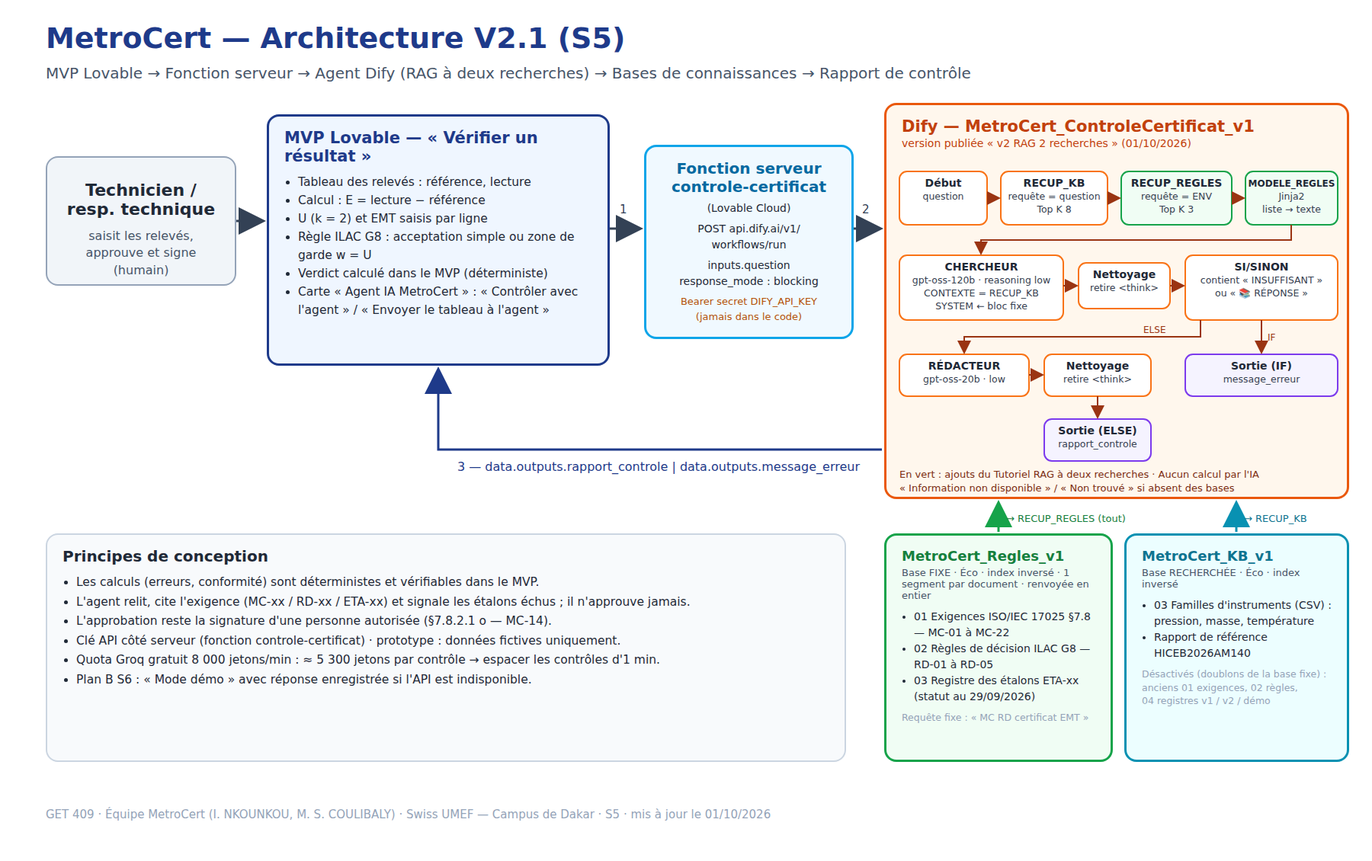
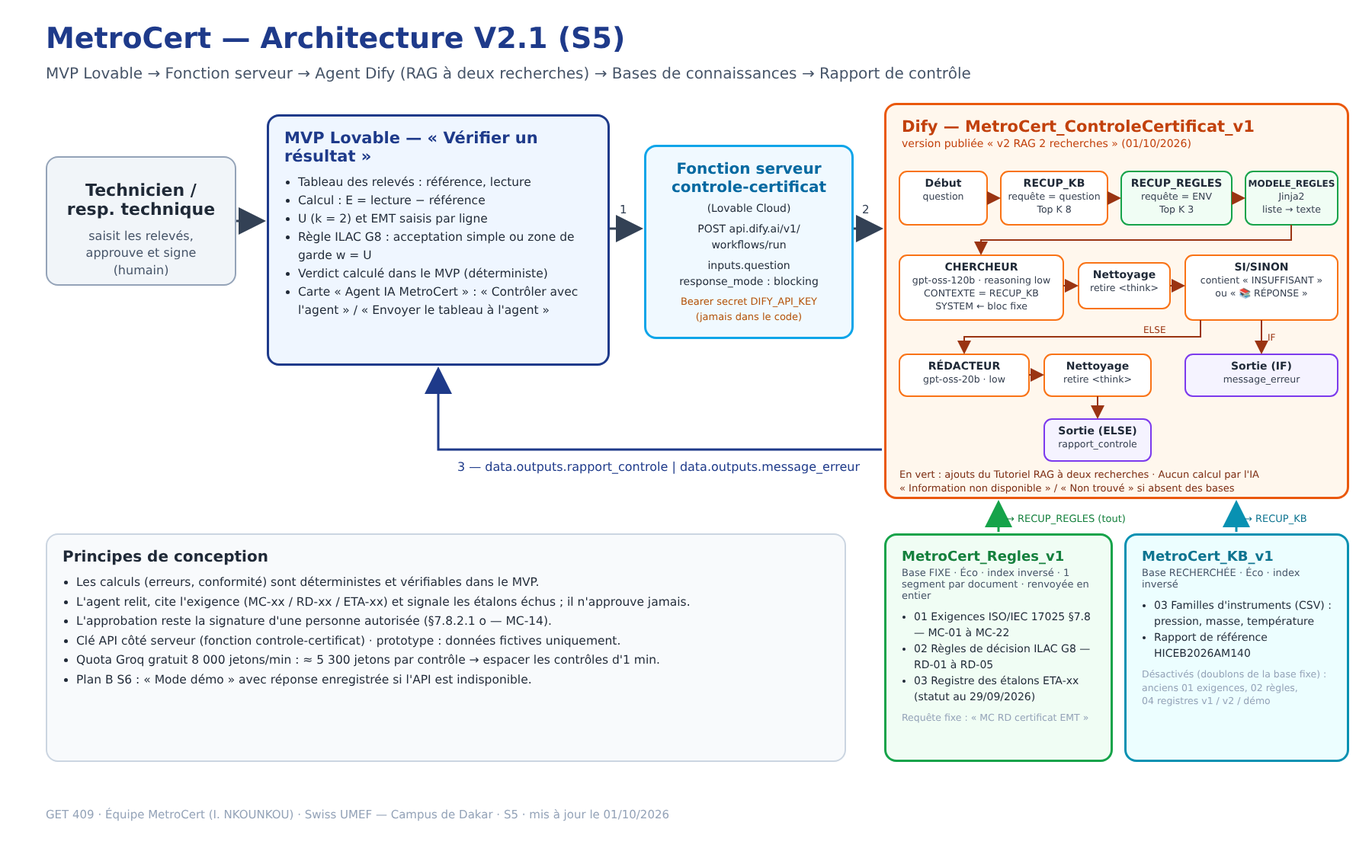
docs(S5+/S6): équipe solo, mise en ligne, secours Gemini, démo et note d'éthique S6
- Équipe : retrait du membre 2 (README, fiche équipe, pieds de page des schémas, PNG régénérés)
- S5+ : lien public, tests T2/T3/T7/T8 sur le site public, secours Gemini, check-list
- Journal de prompts S5+ ; suivi du module D mis à jour
- S6 : script de démo 10 min + plan B, note d'éthique (biais RAG, confidentialité, impact)

Claude-Session: https://claude.ai/code/session_01Ty36ziWNxkZNZZnrMYEiXG

diff --git a/docs/s5/architecture-v2-1.html b/docs/s5/architecture-v2-1.html
@@ -74,7 +74,7 @@ h1{position:absolute;left:60px;top:28px;font-size:38px;color:#1e3a8a;font-weight
 <li>Quota Groq gratuit 8 000 jetons/min : ≈ 5 300 jetons par contrôle → espacer les contrôles d'1 min.</li>
 <li>Plan B S6 : « Mode démo » avec réponse enregistrée si l'API est indisponible.</li></ul></div>
 
-<div class="abs foot">GET 409 · Équipe MetroCert (I. NKOUNKOU, M. S. COULIBALY) · Swiss UMEF — Campus de Dakar · S5 · mis à jour le 01/10/2026</div>
+<div class="abs foot">GET 409 · Équipe MetroCert (I. NKOUNKOU) · Swiss UMEF — Campus de Dakar · S5 · mis à jour le 01/10/2026</div>
 
 <svg class="abs" style="left:0;top:0" width="1800" height="1130">
 <defs>

diff --git a/docs/s6/demo-s6.md b/docs/s6/demo-s6.md
@@ -1,0 +1,107 @@
+# Démo S6 — évaluation intermédiaire (10 min)
+
+> GET 409 · Équipe MetroCert (I. NKOUNKOU) · préparé le 02/10/2026
+> Grille : C1 MVP fonctionnel /4 · C2 architecture agentique /2 · C3 clarté /2.
+> Lien : **https://pixel-perfect-capture-0446.lovable.app/verifier-resultat**
+
+## Avant de passer (J-0, 15 min avant)
+
+- [ ] Ouvrir le lien public et la page « Vérifier un résultat » ; ouvrir Dify (workflow MetroCert_ControleCertificat_v1) dans un 2ᵉ onglet ; ouvrir [architecture-v2-1.png](../s5/architecture-v2-1.png) dans un 3ᵉ.
+- [ ] Faire **un** contrôle de chauffe (entrée B) ≥ 1 min avant de passer, pour vérifier que Groq répond.
+- [ ] Si Groq ne répond pas : bascule Gemini ([s5plus-mise-en-ligne.md](../s5/s5plus-mise-en-ligne.md#module-a--secours-gemini-02102026-0348)) ou plan B ci-dessous.
+- [ ] Entrées A et B copiées dans le presse-papiers ou un bloc-notes.
+- [ ] Laisser **1 minute** entre deux contrôles (quota Groq gratuit).
+
+## Déroulé
+
+| Temps | Partie | À l'écran | Ce que je dis | Critère |
+|---|---|---|---|---|
+| 0:00–1:00 | Problème et valeur | Page d'accueil MetroCert | « Au Sénégal, les laboratoires d'étalonnage rédigent leurs certificats à la main, avec un modèle par instrument et par client. Résultat : 2 à 5 jours de délai et des écarts en audit. MetroCert relit le certificat avant signature, pour livrer dans la journée et passer l'audit sans écart lié aux certificats. » | C3 |
+| 1:00–3:30 | Fonctionnalité 1 : calcul de conformité ILAC G8 | « Vérifier un résultat » → **Charger l'exemple** → basculer entre « Acceptation simple » et « Zone de garde w = U » | « Le calcul E = lecture − référence et le verdict par point sont faits dans l'application, sans IA, donc vérifiables. À 10 bar, E = 0,10 bar = EMT : conforme en acceptation simple, non conforme avec la zone de garde. » | C1 |
+| 3:30–7:00 | Fonctionnalité 2 : agent RAG + circuit de validation (F1) | Coller l'**entrée A** → **Contrôler avec l'agent MetroCert** (≈ 20 s) → montrer 🔎 ETA-T-02 échu [MC-18] → badge rouge et compteurs → **Renvoyer au technicien** (e-mail prérempli, sans destinataire) → **Approuver** grisé, puis nom + case | « L'agent a trouvé dans le registre que l'étalon ETA-T-02 est échu depuis le 31/08/2026 : la traçabilité est rompue, il propose ETA-T-05. Il n'approuve jamais : l'approbation reste un acte humain, nominatif et confirmé. » | C1, C2 |
+| 7:00–8:00 | Garde-fou « demander plutôt qu'inventer » | Coller l'**entrée B** (après 1 min) | « Sans certificat, l'agent répond INSUFFISANT au lieu d'inventer. » | C2 |
+| 8:00–9:30 | Architecture | [architecture-v2-1.png](../s5/architecture-v2-1.png), puis l'onglet Dify | « Lovable appelle une fonction serveur qui garde la clé Dify. Le workflow fait deux recherches : la base fixe des règles, renvoyée en entier, et la base des instruments. CHERCHEUR, puis nœuds Code qui recalculent le bilan, puis RÉDACTEUR. » | C2 |
+| 9:30–10:00 | Éthique et suite | [note-ethique-s6.md](note-ethique-s6.md) | « Données fictives seulement, rien n'est stocké, secours Gemini prêt. Prochaine étape : alerte d'échéance des étalons à 30 jours, puis un pilote contrôlé. » | C3 |
+
+## Entrées à coller
+
+### Entrée A — certificat avec étalon échu (T2)
+
+```text
+CERTIFICAT D'ÉTALONNAGE N° CE-2026-0215 — page 1/1
+Laboratoire : MetroCert, Zone industrielle de Mbao, Dakar — laboratoire non accrédité
+Lieu de l'étalonnage : laboratoire MetroCert
+Client : Agro Démo SARL, Rufisque (client fictif)
+Instrument : thermomètre à sonde Pt100, fabricant Démo, modèle T-100, n° de série DEMO-0215, résolution 0,01 °C
+Méthode : procédure interne PE-T-01 (comparaison en bain thermostaté)
+Date d'étalonnage : 25/09/2026 — date d'émission : 26/09/2026
+Conditions ambiantes : 22,5 °C ± 1 °C ; 48 %HR
+Étalon utilisé : ETA-T-02 (certificat 2025-T-091)
+Résultats :
+Référence 0,00 °C — lecture 0,05 °C — E = 0,05 °C — U = 0,06 °C (k = 2)
+Référence 50,00 °C — lecture 50,08 °C — E = 0,08 °C — U = 0,06 °C (k = 2)
+Référence 100,00 °C — lecture 100,12 °C — E = 0,12 °C — U = 0,07 °C (k = 2)
+Approuvé par : Responsable technique (démo), signature
+```
+
+### Entrée B — entrée incomplète (T3)
+
+```text
+Contrôle le certificat du manomètre.
+```
+
+## Questions probables du jury
+
+| Question | Réponse courte |
+|---|---|
+| Que se passe-t-il si l'agent se trompe ? | Il ne signe rien : il liste des points à vérifier, chacun avec sa référence. Le verdict de conformité des mesures est calculé sans IA, et la signature reste celle du responsable technique. |
+| Pourquoi deux recherches RAG ? | Avec une seule, les 22 exigences et le registre complet ne remontaient pas : l'étalon échu passait inaperçu. La base fixe est renvoyée en entier à chaque contrôle. |
+| Les compteurs changent d'un essai à l'autre ? | Oui, le modèle varie sur certaines mentions (ex. M15). Le verdict et l'étalon échu restent stables, et le bilan est recalculé par un nœud Code. |
+| Où sont les données ? | Prototype : données fictives uniquement, rien n'est stocké. En usage réel : anonymisation et offre sans réutilisation des données (note d'éthique). |
+| Et si Groq tombe ? | Clé Gemini déjà configurée dans Dify, bascule en 2 minutes ; sinon plan B ci-dessous. |
+
+## Plan B
+
+Si l'agent ne répond pas pendant la démo (quota, réseau) : dire « l'API est indisponible, voici la sortie enregistrée sur le site public le 02/10/2026 » et montrer les réponses ci-dessous ou les captures du dossier [`../s5/captures/`](../s5/captures/). La partie 1 (calcul ILAC G8) fonctionne sans API.
+
+### Réponse enregistrée à l'entrée A (site public, 02/10/2026, 03:52)
+
+```text
+RAPPORT DE CONTRÔLE — METROCERT
+Complétude ISO/IEC 17025:2017 §7.8
+═══════════════════════════════
+CERTIFICAT : CE-2026-0215
+INSTRUMENT : thermomètre à sonde Pt100, n° de série DEMO-0215
+LABORATOIRE : MetroCert
+CLIENT : Agro Démo SARL
+───────────────────────────────
+VERDICT : ⛔ À CORRIGER AVANT APPROBATION
+Bilan : 13 présentes · 0 manquantes · 0 à vérifier · 2 non applicables
+───────────────────────────────
+❌ MENTIONS MANQUANTES
+Aucune
+───────────────────────────────
+⚠ POINTS À VÉRIFIER
+Aucune
+───────────────────────────────
+🔎 INCOHÉRENCES
+1. L'étalon cité (ETA-T-02) apparaît dans le registre des étalons avec le statut Échu (échéance 31/08/2026) → utilisation non conforme à la traçabilité métrologique [MC-18].
+───────────────────────────────
+✅ MENTIONS PRÉSENTES
+M1, M2, M3, M4, M5, M6, M7, M8, M9, M10, M11, M12, M15
+───────────────────────────────
+PROCHAINE ÉTAPE
+Refaire l'étalonnage avec un étalon valide du registre (ex. ETA-T-05 pour la température) : un étalon échu rompt la traçabilité (MC-18).
+───────────────────────────────
+Contrôle automatique d'aide à la relecture. Il ne remplace ni la vérification ni la signature du responsable technique.
+```
+
+### Réponse enregistrée à l'entrée B (site public, 02/10/2026, 02:20)
+
+```text
+INSUFFISANT : Aucun texte de certificat ou relevé d'étalonnage fourni pour effectuer le contrôle.
+```
+
+### Réponse enregistrée à « Envoyer le tableau à l'agent » (exemple du manomètre, 02/10/2026, 02:22)
+
+Verdict ⛔ ; Bilan 2 présentes · 11 manquantes · 1 à vérifier · 1 non applicable : le tableau seul ne contient ni numéro de certificat, ni laboratoire, ni client, ni étalon ; M10 « U indiqué sans unité » à vérifier. Prochaine étape : compléter M1 à M8, M11, M12, M15 et préciser l'unité et le facteur k de U.

diff --git a/README.md b/README.md
@@ -6,10 +6,9 @@
 
 | Prénom Nom | Rôle | GitHub |
 |---|---|---|
-| Ivon NKOUNKOU | Chef de Produit (PM) · Dev UI (No-Code) | @nherrys2026-max |
-| Maimouna Sira COULIBALY | Master Prompt Engineer · Responsable Impact & Éthique | coulibalymaimounasira@gmail.com |
+| Ivon NKOUNKOU | Chef de Produit (PM) · Dev UI (No-Code) · Prompt Engineer · Responsable Impact & Éthique | @nherrys2026-max |
 
-Contacts GitHub de l'équipe : nherrys2026@gmail.com · coulibalymaimounasira@gmail.com
+Contact GitHub de l'équipe : nherrys2026@gmail.com
 
 ## Notre défi
 
@@ -47,7 +46,7 @@ Par rapport à la S1, le HMW définitif garde un seul utilisateur principal (le 
 
 | Livrable | Fichier / lien | Statut |
 | --- | --- | --- |
-| **L1 · MVP V1 en ligne** (35 pts) | URL lovable.app : _à renseigner_ | ⏳ |
+| **L1 · MVP V1 en ligne** (35 pts) | [pixel-perfect-capture-0446.lovable.app](https://pixel-perfect-capture-0446.lovable.app) | ✅ |
 | **L2 · Projet Lovable public + README** (25 pts) | Dépôt du code : _à renseigner_ | ⏳ |
 | **L3 · Journal de prompts S4** (init + 3 itérations) | [docs/s4/s4-mvp-lovable.md §4](docs/s4/s4-mvp-lovable.md#4-journal-de-prompts-s4-l3--min-4-prompts) | ⏳ résultats à noter |
 | **L4 · Captures + note d'itération** | [docs/s4/s4-mvp-lovable.md §5](docs/s4/s4-mvp-lovable.md#5-note-ditération-l4--½-page-brouillon-à-ajuster) | ⏳ captures à faire |
@@ -58,16 +57,27 @@ Prompts prêts à coller : [docs/s4/s4-mvp-lovable.md](docs/s4/s4-mvp-lovable.md
 
 | Livrable | Fichier / lien | Statut |
 | --- | --- | --- |
-| **L1 · MVP V2 avec webhook** (30 pts) | MVP Lovable, page « Vérifier un résultat » → carte « Agent IA MetroCert » ; appel par la fonction serveur `controle-certificat` (secret `DIFY_API_KEY`). URL publique lovable.app : _à renseigner_ | ✅ testé le 01/10 |
+| **L1 · MVP V2 avec webhook** (30 pts) | MVP Lovable, page « Vérifier un résultat » → carte « Agent IA MetroCert » ; appel par la fonction serveur `controle-certificat` (secret `DIFY_API_KEY`). URL publique : [pixel-perfect-capture-0446.lovable.app/verifier-resultat](https://pixel-perfect-capture-0446.lovable.app/verifier-resultat) | ✅ testé en ligne le 02/10 (PC + Android) |
 | **L2 · Pipeline RAG** (30 pts) | RAG à deux recherches : base fixe `MetroCert_Regles_v1` ([kb/fixe/](docs/s5/kb/fixe/)) + base recherchée `MetroCert_KB_v1` — [docs/s5/s5bis-rag-deux-recherches.md](docs/s5/s5bis-rag-deux-recherches.md) · captures Dify à ajouter | ⏳ captures |
 | **L3 · Schéma d'architecture V2.1** (20 pts) | [docs/s5/architecture-v2-1.png](docs/s5/architecture-v2-1.png) (V2 initiale : [architecture-v2.png](docs/s5/architecture-v2.png)) | ✅ |
 | **L4 · Journal de prompts S5** (10 prompts) | [docs/s5/s5-rag-webhook.md](docs/s5/s5-rag-webhook.md#journal-de-prompts-s5-l4--min-3-prompts) | ✅ |
 | **Tests de non-régression T1–T6** (S5+, module B) | [docs/s5/s5bis-rag-deux-recherches.md §5](docs/s5/s5bis-rag-deux-recherches.md#5-batterie-de-tests-t1t6-module-b) | ✅ 6/6 (v2.3) |
-| **Fonctionnalité IA innovante** (S5+, module D) | 3 propositions notées (F1 24/25 · F3 19/25 · F2 15/25), F1 « validation et renvoi au technicien » implémentée dans Lovable, tests T7–T8 — [docs/s5/module-d-fonctionnalites.md](docs/s5/module-d-fonctionnalites.md) | ✅ T7–T8 (aperçu) · ⏳ Publish |
+| **Mise en ligne, tests publics, secours Gemini** (S5+, modules A et F) | [docs/s5/s5plus-mise-en-ligne.md](docs/s5/s5plus-mise-en-ligne.md) — clé de secours `Gemini_MetroCert` dans Dify, bascule en 2 min | ✅ |
+| **Fonctionnalité IA innovante** (S5+, module D) | 3 propositions notées (F1 24/25 · F3 19/25 · F2 15/25), F1 « validation et renvoi au technicien » implémentée dans Lovable, tests T7–T8 — [docs/s5/module-d-fonctionnalites.md](docs/s5/module-d-fonctionnalites.md) | ✅ T7–T8 sur le site public (02/10) |
 
 Agent Dify : `MetroCert_ControleCertificat_v1_[HERRYSTEAM]` — Workflow — version publiée **« v2.3 bilan doublons »** (01/10/2026) — CHERCHEUR Groq `gpt-oss-120b`, RÉDACTEUR Groq `gpt-oss-20b` (reasoning low). Limite du palier gratuit Groq : un contrôle par minute.
 
 ![Architecture V2.1](docs/s5/architecture-v2-1.png)
+
+## S6 — Évaluation intermédiaire
+
+| Élément | Fichier | Statut |
+| --- | --- | --- |
+| **Démo 10 min** (C1 MVP /4 · C2 architecture /2 · C3 clarté /2) | [docs/s6/demo-s6.md](docs/s6/demo-s6.md) — déroulé minuté, entrées à coller, questions du jury | ✅ prêt |
+| **Plan B** (panne API) | [docs/s6/demo-s6.md#plan-b](docs/s6/demo-s6.md#plan-b) — réponses réelles enregistrées sur le site public | ✅ |
+| **Note d'éthique IA** (biais RAG, confidentialité, impact socio-économique) | [docs/s6/note-ethique-s6.md](docs/s6/note-ethique-s6.md) | ✅ |
+
+Lien de démo : **[pixel-perfect-capture-0446.lovable.app/verifier-resultat](https://pixel-perfect-capture-0446.lovable.app/verifier-resultat)**
 
 ## Structure du dépôt
 
@@ -93,9 +103,13 @@ GET409-MetroCert/
         ├── s5-rag-webhook.md          ← S5 · RAG, webhook, journal de prompts, plan B
         ├── s5bis-rag-deux-recherches.md ← S5 bis · base fixe, workflow publié, tests T1–T6, versions
         ├── module-d-fonctionnalites.md ← S5+ module D · 3 fonctionnalités notées, spec F1, T7–T8
+        ├── s5plus-mise-en-ligne.md    ← S5+ · lien public, tests en ligne, secours Gemini, check-list
         ├── architecture-v2-1.png/.html ← S5 · L3 (schéma à jour) ; architecture-v2.* = V2 initiale
         ├── prompts/                   ← prompts SYSTEM publiés (CHERCHEUR, RÉDACTEUR)
         ├── code/                      ← nœuds Code Dify (Nettoyage CHERCHEUR / RÉDACTEUR)
         ├── captures/                  ← captures L1 / L4
         └── kb/                        ← base recherchée MetroCert_KB_v1 (+ fixe/ : base MetroCert_Regles_v1)
+    └── s6/
+        ├── demo-s6.md                 ← S6 · script de démo 10 min + plan B
+        └── note-ethique-s6.md         ← S6 · note d'éthique IA (1 page)
 ```

diff --git a/docs/s5/s5plus-mise-en-ligne.md b/docs/s5/s5plus-mise-en-ligne.md
@@ -1,0 +1,53 @@
+# S5+ — Mise en ligne, tests sur le site public et secours Gemini
+
+> GET 409 · Tutoriel S5+ (modules A, B, D, F) · Équipe MetroCert (I. NKOUNKOU) · 02/10/2026
+
+## Lien public
+
+**https://pixel-perfect-capture-0446.lovable.app** — page de l'agent : [`/verifier-resultat`](https://pixel-perfect-capture-0446.lovable.app/verifier-resultat), carte « Agent IA MetroCert 🔎 ».
+
+- Projet Lovable « Pixel Perfect Pixels », première publication le 02/10/2026 vers 02:15.
+- Mise à jour publiée à 03:01 : liste « Dernières décisions » conservée entre deux contrôles.
+- Correctif appliqué dans Lovable le 02/10 vers 04:00, **à publier** (Publish → « Publier les modifications ») : liste visible même après une réponse INSUFFISANT, « N° manquant » pour un certificat sans numéro.
+- Visibilité : toute personne disposant du lien.
+
+## Tests sur le site public (02/10/2026)
+
+Contrôles espacés d'1 minute (quota Groq gratuit : 8 000 jetons/min, ≈ 5 300 par contrôle).
+
+| Test | Appareil | Entrée | Résultat | Statut |
+|---|---|---|---|:-:|
+| T3 | PC (~02:20) | « Contrôle le certificat du manomètre. » | `INSUFFISANT : Aucun texte de certificat ou relevé d'étalonnage fourni…`, sans badge ni bouton. Prouve aussi que le secret `DIFY_API_KEY` est présent en production. | ✅ |
+| F1 (chemin ⛔) | PC (~02:22 et ~02:25) | « Charger l'exemple » → « Envoyer le tableau à l'agent » → « Contrôler » | VERDICT ⛔ ; Bilan 2 · 11 · 1 · 1 puis 4 · 10 · 2 · 1 (variabilité du modèle, verdict stable) ; badge et compteurs identiques à la ligne Bilan ; « Renvoyer au technicien » présent. | ✅ |
+| F1 (chemin ⛔) | **Téléphone Android, Chrome (02:29)** | idem | VERDICT ⛔ ; Bilan 2 · 11 · 1 · 1 ; badge, 4 pastilles, « Renvoyer au technicien » et bloc « Approbation » affichés ; mise en page mobile lisible. | ✅ |
+| T7 | PC (03:03) | Exemple du tableau | « Approuver » **désactivé** avec le nom seul ; actif après la case cochée. « Approuvé par Responsable démo le 2 octobre 2026 à 03:03 » ajouté à « Dernières décisions ». | ✅ |
+| T8-2 | PC (~03:05) | Entrée de T3 | `INSUFFISANT…` seul, sans badge ni bouton. | ✅ |
+| T8 persistance | PC (~03:07) | Nouveau contrôle complet | Nouveau rapport ⛔ et la décision de 03:03 **toujours listée**. | ✅ |
+| Rechargement | PC (~03:08) | F5 | Liste vide ; `localStorage` vide ; `sessionStorage` ne contient que la position de défilement du routeur. | ✅ |
+| T2 (public) | PC (03:52) | Certificat fictif complet CE-2026-0215, Pt100, étalon ETA-T-02 ([texte](../s6/demo-s6.md#entrée-a--certificat-avec-étalon-échu-t2)) | ⛔ ; Bilan 13 · 0 · 0 · 2 ; 🔎 « ETA-T-02 … statut Échu (échéance 31/08/2026) … [MC-18] » ; prochaine étape « Refaire l'étalonnage avec un étalon valide du registre (ex. ETA-T-05) ». Après approbation : « CE-2026-0215 — Approuvé par… » (pas de doublon « CE-CE- »). | ✅ |
+
+Captures : [T7](captures/T7_F1_verdict_rouge.jpg) · [T8](captures/T8_F1_verdict_vert.jpg) · captures téléphone (02/10, 02:29) à ajouter dans `captures/`.
+
+## Module A — secours Gemini (02/10/2026, 03:48)
+
+- Clé AI Studio créée sur le projet Google Cloud `metrocert`. Une première clé, apparue en clair sur une capture, a été **supprimée et remplacée** (règle §7 du tutoriel).
+- Dify → **Intégrations → Fournisseur de Modèle** → carte Gemini (plugin 0.9.10) → autorisation **Gemini_MetroCert**, point vert.
+- Workflow **inchangé** : CHERCHEUR et RÉDACTEUR restent sur Groq ; Gemini ne sert qu'en cas de panne.
+
+**Bascule d'urgence (≈ 2 min)** : Studio → MetroCert_ControleCertificat_v1 → nœuds CHERCHEUR puis RÉDACTEUR → Modèle → section Gemini → Flash-Lite le plus récent, température 0,3 → **Publier → Mettre à jour** → rejouer T2, T3 et T5 avant la démo (un autre modèle change le comportement, tutoriel §2.4). Pas de données client réelles avec une clé gratuite.
+
+## Écarts restants (non bloquants)
+
+1. Mobile : les lignes `═══` / `───` du rapport reviennent à la ligne (un caractère isolé). Cosmétique.
+2. Variabilité du décompte d'une exécution à l'autre (ex. M15 « personne qui autorise ») : le verdict et l'étalon échu restent stables ; le badge suit toujours la ligne Bilan.
+
+## Check-list de fin de séance (tutoriel S5+ §8)
+
+- [x] Agent Dify sur un modèle avec notre clé, workflow publié (Groq + secours Gemini_MetroCert)
+- [x] T1–T6 écrits et réussis après la dernière modification (T2 et T3 rejoués sur le site public)
+- [x] 1 fonctionnalité innovante : F1, spec, app, T7–T8 ([module-d-fonctionnalites.md](module-d-fonctionnalites.md))
+- [x] Dépôt GitHub à jour, sans aucune clé
+- [x] Lien public testé depuis un autre appareil (téléphone Android)
+- [x] Journal L4 complété ([../journal-prompts.md](../journal-prompts.md#journal-de-prompts--s5-module-s5))
+- [x] Note d'éthique mise à jour ([../s6/note-ethique-s6.md](../s6/note-ethique-s6.md))
+- [x] Aucune clé laissée exposée

diff --git a/docs/s6/note-ethique-s6.md b/docs/s6/note-ethique-s6.md
@@ -1,0 +1,22 @@
+# Note d'éthique IA — S6
+
+> GET 409 · Équipe MetroCert (I. NKOUNKOU) · Swiss UMEF — Campus de Dakar · 02/10/2026
+> Axes demandés en S6 : biais du RAG, confidentialité des données, impact socio-économique ; une ligne par fonctionnalité (tutoriel S5+ §7).
+
+## Contexte
+
+MetroCert aide Mame Diarra, responsable technique d'un laboratoire d'étalonnage à Dakar, à relire ses certificats avant signature. L'agent Dify compare le certificat aux exigences ISO/IEC 17025 §7.8 (MC-01 à MC-22), aux règles de décision ILAC G8 (RD-01 à RD-05) et au registre des étalons. Un certificat engage le laboratoire devant son client et devant l'auditeur d'accréditation : une erreur de l'agent peut laisser sortir un résultat non traçable.
+
+## Risques et garde-fous
+
+| Axe | Risque propre à MetroCert | Garde-fou technique | Garde-fou organisationnel | Preuve |
+|---|---|---|---|---|
+| **Biais du RAG** | La base ne couvre que 3 familles (pression, masse, température) et une lecture de l'ISO/IEC 17025 §7.8 faite par l'équipe. Pour un pied à coulisse ou un pH-mètre, l'agent peut déclarer « présentes » des mentions sans connaître les exigences de la norme produit. | L'agent cite l'exigence (MC-xx, RD-xx, ETA-xx) pour chaque point ; « Information non disponible » si la base ne répond pas ; badge calculé sur la ligne Bilan, pas par l'IA. | Domaine d'emploi affiché : 3 familles seulement pendant le pilote ; relecture de la base par un métrologue avant chaque nouvelle famille. | T1, T4, test hors base « HICEB2026 » |
+| **Référentiel périmé** | Registre des étalons figé au 29/09/2026 : un étalon qui expire après cette date sera vu comme valide. | L'étalon échu est signalé [MC-18] et bloque le verdict ✅ ; fonctionnalité F3 prévue : date du registre affichée et alerte à 30 jours. | Mise à jour mensuelle du registre par le responsable des étalons. | T2 (ETA-T-02 échu, rejoué sur le site public) |
+| **Confidentialité** | Un vrai certificat contient le nom du client, les numéros de série et les résultats. Il part vers Dify Cloud puis vers Groq (et Gemini en secours), hors du Sénégal, sur des offres gratuites qui peuvent réutiliser les requêtes (loi 2008-12 sur les données personnelles). | Clé Dify en secret serveur, jamais dans le code ni sur GitHub ; aucune décision stockée (ni navigateur, ni serveur) ; e-mail au technicien sans destinataire imposé. | Prototype : certificats **fictifs uniquement**. Avant usage réel : anonymiser le client avant envoi, offre payante sans réutilisation des données ou Dify auto-hébergé, accord de sous-traitance. | Rechargement : liste vide, `localStorage` vide |
+| **Fiabilité et responsabilité (F1)** | Un verdict ✅ erroné, ou l'approbation d'un certificat ⛔ en un clic, ferait signer un certificat non conforme. | Ligne finale fixe « ne remplace ni la vérification ni la signature » ; bilan recalculé par un nœud Code ; « Approuver » exige un nom et, si ⛔, la case « J'ai relu les points signalés et j'assume l'approbation ». | La signature reste celle de la personne autorisée (§7.8.2.1) ; toute approbation d'un ⛔ est justifiée dans le dossier qualité. | T6, T7, T8 |
+| **Impact socio-économique** | Gain : relecture plus rapide, livraison dans la journée, accès plus facile à l'accréditation pour les petits laboratoires. Risques : dépendance à des API étrangères gratuites (quota, coupure de compte), déqualification si les techniciens ne relisent plus, exclusion des laboratoires mal connectés. | Secours Gemini prêt (bascule en 2 min) ; l'agent liste les points à corriger au lieu de corriger lui-même ; interface utilisable sur téléphone. | L'outil est présenté comme aide à la relecture, pas comme remplaçant du technicien ; formation courte à la lecture du rapport ; plan B hors ligne pour la démo. | Lien public testé sur Android ; plan B ([demo-s6.md](demo-s6.md#plan-b)) |
+
+## Recommandation
+
+**Pilote contrôlé.** L'agent détecte de façon stable les étalons échus et les mentions manquantes, mais le décompte varie d'un essai à l'autre et le quota gratuit ne tient pas une charge réelle. Pilote proposé : 4 semaines, 3 familles d'instruments, certificats anonymisés, relecture en double. Indicateurs : taux de mentions manquées par l'agent (cible < 5 %), délai d'émission, nombre d'approbations de certificats ⛔.

diff --git a/docs/journal-prompts.md b/docs/journal-prompts.md
@@ -200,3 +200,23 @@ Détail : [s5/s5-rag-webhook.md](s5/s5-rag-webhook.md#journal-de-prompts-s5-l4--
 Tests de non-régression T1–T6 : [s5/s5bis-rag-deux-recherches.md §5](s5/s5bis-rag-deux-recherches.md).
 
 Module D (S5+) — prompts P-Idées et P-Spec, prompt Lovable de F1, tests T7–T8 : [s5/module-d-fonctionnalites.md](s5/module-d-fonctionnalites.md).
+
+# Journal de prompts — S5+ (module S5+)
+
+Tutoriel GET409 S5+ appliqué à MetroCert (modules A, B, D, F). Détail et preuves : [s5/s5plus-mise-en-ligne.md](s5/s5plus-mise-en-ligne.md).
+
+| Date | Prompt ou action | Outil | Résultat | Note /5 |
+|---|---|---|---|:-:|
+| 02/10 ~04:00 | « Sur la page /verifier-resultat, affiche la liste « Dernières décisions » en permanence… si le numéro… commence par « MANQUANT », affiche « N° manquant »… Ne modifie rien d'autre. » | Lovable | Correctif appliqué dans Lovable ; publication à faire | 4/5 |
+| 02/10 03:52 | Entrée T2 complète (CE-2026-0215, étalon ETA-T-02) sur le lien public | Site public | Étalon échu détecté [MC-18], ETA-T-05 proposé ; numéro correct dans « Dernières décisions » | 5/5 |
+| 02/10 03:48 | Clé Gemini AI Studio (projet `metrocert`) ajoutée dans Dify comme secours | AI Studio, Dify | `Gemini_MetroCert` point vert ; workflow inchangé (Groq) | 5/5 |
+| 02/10 03:01 | « Remonte l'état « Dernières décisions » du composant RapportControleActions au niveau de la page /verifier-resultat… Ne modifie rien d'autre. » puis Publish → Update | Lovable | Décisions conservées entre deux contrôles ; rien de persisté après rechargement (T7, T8 sur le site public) | 4/5 |
+| 02/10 02:15 | Première publication Lovable, puis tests T3 et F1 sur le lien public (PC et téléphone Android) | Lovable, Claude | Site public opérationnel ; secret `DIFY_API_KEY` présent en production | 5/5 |
+| 01/10 20:33 | Prompt Lovable F1 (badge, compteurs, « Renvoyer au technicien », « Approbation ») | Lovable | F1 en place sans toucher à la fonction serveur ; T7–T8 en aperçu | 4/5 |
+| 01/10 | P-Idées puis P-Spec (tutoriel §5.4) adaptés à MetroCert | Claude | F1 24/25, F3 19/25, F2 15/25 ; F1 retenue | 5/5 |
+
+Leçon : quand une consigne n'est pas suivie de façon stable par le modèle (comptage, dédoublonnage), la déplacer dans un nœud Code plutôt que d'ajouter des règles au prompt ; et ne jamais coller une clé API dans une capture (clé exposée = clé supprimée et recréée).
+
+# S6 — Démo et note d'éthique
+
+Script de démo 10 min + plan B : [s6/demo-s6.md](s6/demo-s6.md) · Note d'éthique : [s6/note-ethique-s6.md](s6/note-ethique-s6.md).

diff --git a/docs/s5/module-d-fonctionnalites.md b/docs/s5/module-d-fonctionnalites.md
@@ -1,6 +1,6 @@
 # Module D (S5+) : fonctionnalité IA innovante MetroCert
 
-> GET 409 · Tutoriel S5+ §5 · Équipe MetroCert (I. NKOUNKOU, M. S. COULIBALY) · 01/10/2026
+> GET 409 · Tutoriel S5+ §5 · Équipe MetroCert (I. NKOUNKOU) · 01/10/2026
 > Point de départ : agent **v2.3** publié, T1–T6 réussis ([`s5bis-rag-deux-recherches.md`](s5bis-rag-deux-recherches.md)).
 
 ## 1. Point de départ : HMW et douleurs ciblées
@@ -152,9 +152,12 @@ Le prompt du §4 a été envoyé dans Lovable à 20:33, juste après le correcti
 
 **Captures** : [T7, verdict rouge](captures/T7_F1_verdict_rouge.jpg) · [T8, verdict vert](captures/T8_F1_verdict_vert.jpg)
 
-## 9. Reste à faire (équipe)
+## 9. Suivi (mis à jour le 02/10/2026)
 
-1. ~~Envoyer les deux prompts Lovable~~ (fait le 01/10, 20:29 et 20:33). ~~T7, T8, T1–T6~~ (faits). ~~Captures T7 et T8~~ (dans `captures/`).
-2. Correctif « Dernières décisions » : cliquer sur ↑ dans Lovable quand les crédits sont rechargés (le prompt est déjà dans la zone de saisie), puis rejouer T7 et T8.
-3. **Publish → Update** dans Lovable (à faire vous-même, car la publication en production m'est bloquée), puis tester le lien public depuis un téléphone.
-4. Compléter la note du Journal L4 et la note d'éthique (§6).
+1. ~~Envoyer les deux prompts Lovable, T7, T8, T1–T6, captures T7 et T8~~ (01/10).
+2. ~~Correctif « Dernières décisions »~~ : appliqué et publié le 02/10 à 03:01 ; T7, T8 et rechargement réussis sur le site public.
+3. ~~Publish et test du lien public depuis un téléphone~~ : https://pixel-perfect-capture-0446.lovable.app (Android, 02/10 02:29).
+4. ~~Journal L4 et note d'éthique~~ : [../journal-prompts.md](../journal-prompts.md) et [../s6/note-ethique-s6.md](../s6/note-ethique-s6.md).
+5. Correctif d'affichage (liste visible après INSUFFISANT, « N° manquant ») : appliqué dans Lovable, **à publier**.
+
+Détail des tests sur le site public : [s5plus-mise-en-ligne.md](s5plus-mise-en-ligne.md).

diff --git a/docs/fiche-equipe.md b/docs/fiche-equipe.md
@@ -5,11 +5,8 @@
 | Nom de l'équipe | MetroCert |
 | Secteur d'activité cible | Industrie et qualité — métrologie et étalonnage des instruments de mesure |
 | Prénom & Nom — Membre 1 | Ivon NKOUNKOU |
-| Rôle — Membre 1 | Chef de Produit (PM), Dev UI (No-Code) |
+| Rôle — Membre 1 | Chef de Produit (PM), Dev UI (No-Code), Prompt Engineer, Responsable Impact & Éthique |
 | E-mail GitHub — Membre 1 | nherrys2026@gmail.com |
-| Prénom & Nom — Membre 2 | Maimouna Sira COULIBALY |
-| Rôle — Membre 2 | Master Prompt Engineer, Responsable Impact & Éthique |
-| E-mail GitHub — Membre 2 | coulibalymaimounasira@gmail.com |
 | URL du dépôt GitHub | https://github.com/nherrys2026-max/GET409-MetroCert |
 
 **Problème en 1 phrase :** Au Sénégal, les laboratoires d'étalonnage rédigent encore leurs certificats à la main dans des modèles Word/Excel différents pour chaque type d'instrument et chaque client, ce qui génère des erreurs, des retards de livraison et des écarts en audit d'accréditation.
